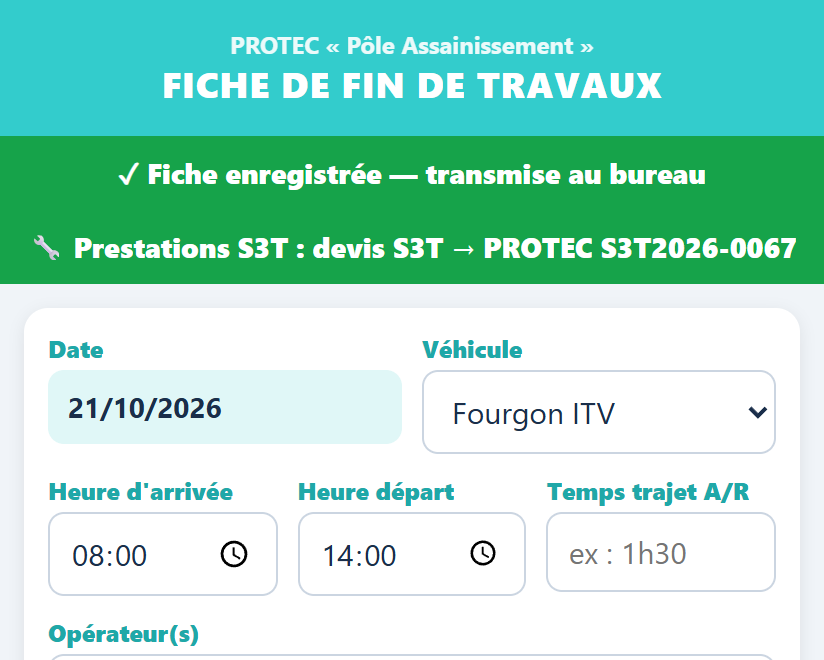
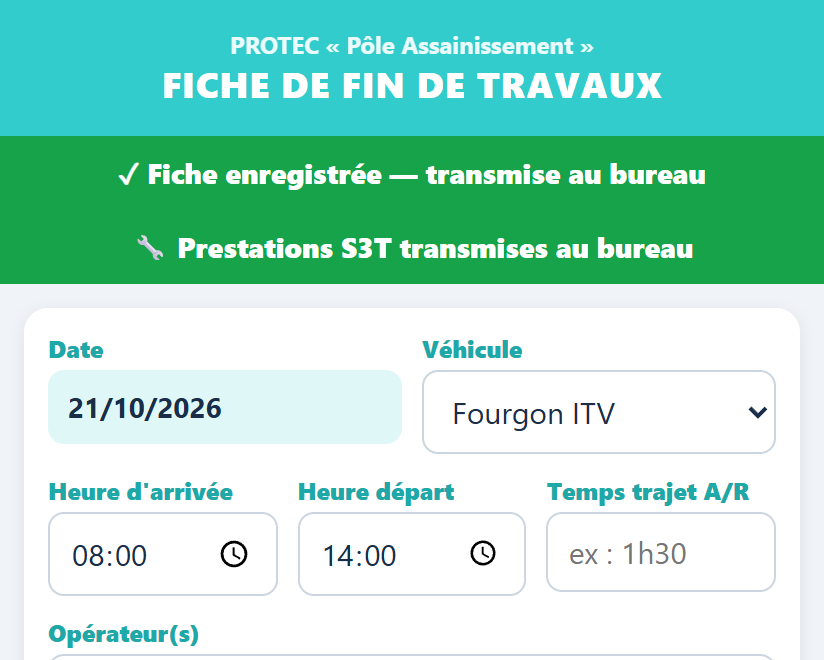
Docs : procédure S3T sans devis (transmission au bureau), bandeau recapturé

Changed region(s): [[0.0303, 0.3333, 0.9709, 0.3939]]

diff --git a/docs/build_procedure_s3t.py b/docs/build_procedure_s3t.py
@@ -1,7 +1,7 @@
 # -*- coding: utf-8 -*-
 """Procédure « Prestations S3T sur la fiche de fin de travaux » (19/10/2026).
   python build_procedure_s3t.py  ->  Desktop/Protec assainissement/Procedure_fiche_S3T_2026-10-19.pdf
-Captures facultatives : docs/captures_s3t/1_onglet_s3t.png, 2_bandeau_s3t.png, 3_devis_s3t.png, 4_chatter_creneau.png."""
+Captures facultatives : docs/captures_s3t/1_onglet_s3t.png, 2_bandeau_s3t.png, 4_chatter_creneau.png."""
 import os, sys
 sys.stdout.reconfigure(encoding='utf-8')
 from reportlab.lib.pagesizes import A4
@@ -63,7 +63,7 @@ s = [Paragraph("Prestations S3T sur la fiche de fin de travaux", H1),
      Paragraph("Sous-traitance S3T pour PROTEC : saisie par Thomas sur le téléphone, suivi par le bureau. Version du 19/10/2026.", SMALL), Spacer(1, 6)]
 s.append(Paragraph("Quand S3T intervient pour un client PROTEC (inspection télévisée, prise en charge du fourgon, location de caméra…), "
                    "Thomas remplit la fiche de fin de travaux habituelle et note les prestations S3T dans l'onglet <b>S3T</b>. "
-                   "Ces prestations sont transmises au bureau PROTEC et un devis S3T → PROTEC est créé automatiquement pour la facturation de S3T.", NOTE))
+                   "Ces prestations sont transmises au bureau PROTEC, qui facture le client ; S3T facture PROTEC comme aujourd'hui, à partir des prestations notées.", NOTE))
 
 s.append(Paragraph("Côté Thomas : remplir l'onglet S3T", H2))
 s.extend(etapes(["Ouvrir <b>Ma tournée</b> sur le téléphone (lien habituel), puis la fiche de fin de travaux de l'intervention.",
@@ -71,30 +71,26 @@ s.extend(etapes(["Ouvrir <b>Ma tournée</b> sur le téléphone (lien habituel), 
                  "Appuyer sur l'onglet <b>S3T</b> (dernier onglet du bloc « Nature des travaux »). La liste reprend les articles de S3T : inspections télévisées REU, REP ou EU + EP, forfaits « moins de 275 ml », branchements, prise en charge d'un fourgon, rapport d'ITV, location de caméra, découchage…",
                  "Saisir la <b>quantité réalisée</b> en face de chaque prestation faite, dans l'unité indiquée (forfait, heure, unité, nuit). Laisser vide ce qui n'a pas été fait.",
                  "Ligne <b>Précisions S3T</b> : le matériel ou une remarque utile pour la facturation (caméra utilisée, regard, longueur…).",
-                 "Signature et photos comme d'habitude, puis <b>ENREGISTRER</b>. Le bandeau vert confirme et affiche le numéro du devis S3T créé (ex. S3T2026-0068).",
-                 "<b>PAUSE</b> garde les saisies sans rien transmettre : rien n'est créé côté S3T tant que la fiche n'est pas enregistrée."]))
+                 "Signature et photos comme d'habitude, puis <b>ENREGISTRER</b>. Le bandeau vert confirme : « Prestations S3T transmises au bureau ».",
+                 "<b>PAUSE</b> garde les saisies sans rien transmettre au bureau tant que la fiche n'est pas enregistrée."]))
 s.extend(deux_captures('1_onglet_s3t.png', "L'onglet S3T : quantités en face des prestations réalisées, puis précisions.",
-                       '2_bandeau_s3t.png', "Après ENREGISTRER : le bandeau indique le devis S3T créé."))
-s.append(Paragraph("Si la fiche est modifiée et enregistrée à nouveau, les prestations du devis S3T sont remplacées par les nouvelles, tant que S3T n'a pas confirmé ce devis. "
-                   "Une fois le devis confirmé par S3T, il n'est plus modifié : prévenir le bureau en cas de correction.", NOTE))
+                       '2_bandeau_s3t.png', "Après ENREGISTRER : le bandeau confirme la transmission au bureau."))
+s.append(Paragraph("Si la fiche est modifiée et enregistrée à nouveau, une nouvelle note est posée sur la commande avec les quantités à jour : c'est la dernière note qui compte.", NOTE))
 
 s.append(Paragraph("Côté bureau PROTEC : où retrouver les prestations", H2))
 s.extend(etapes(["<b>Sur le créneau du planning</b> : le chatter du créneau reçoit le résumé de la fiche avec un tableau « Prestations S3T (sous-traitant) » (prestation, quantité) et les précisions.",
-                 "<b>Sur la commande PROTEC</b> (le devis ou bon de commande client lié au créneau) : une note « Prestations S3T (sous-traitant) » reprend le même tableau et le numéro du devis S3T. C'est le point de départ pour facturer le client PROTEC.",
+                 "<b>Sur la commande PROTEC</b> (le devis ou bon de commande client lié au créneau) : une note « Prestations S3T (sous-traitant) » reprend le même tableau. C'est le point de départ pour facturer le client PROTEC.",
                  "<b>Sur le rapport d'intervention client</b> : les prestations S3T figurent dans « Prestations réalisées », sans mention du sous-traitant.",
-                 "<b>Côté S3T</b> (société S3T dans Odoo, menu Ventes › Devis) : un devis <b>S3T → PROTEC « Pôle Assainissement »</b> en brouillon, avec les lignes aux tarifs S3T, la référence de la commande PROTEC en référence client et, en bas, la date, le client et l'adresse de l'intervention. "
-                 "Vérifier, <b>Confirmer</b>, puis facturer : la facture S3T arrive dans PROTEC par la facturation électronique comme aujourd'hui."]))
-s.extend(capture('3_devis_s3t.jpg', "Le devis S3T → PROTEC créé en brouillon dans la société S3T (ici un test, supprimé ensuite)."))
+                 "<b>Côté S3T</b> : aucun devis n'est généré. S3T facture PROTEC comme aujourd'hui, en reprenant les prestations notées sur la commande PROTEC ; la facture arrive dans PROTEC par la facturation électronique."]))
 s.extend(capture('4_chatter_creneau.png', "Le résumé de la fiche dans le chatter du créneau, avec le tableau des prestations S3T.", 52))
 
 s.append(Paragraph("Points d'attention", H2))
 s.append(tableau([
     ["Situation", "Explication", "Que faire"],
     ["L'onglet S3T affiche « Articles S3T inaccessibles »", "Odoo n'a pas répondu, ou le compte du relais n'a plus accès à la société S3T.", "Réessayer un peu plus tard ; si cela persiste, prévenir Xavier."],
-    ["Le bandeau indique « ERREUR » après S3T", "La fiche est bien enregistrée, mais le devis S3T n'a pas pu être créé (article supprimé, droit manquant).", "Transmettre le message au bureau : le devis S3T se crée à la main depuis la note posée sur le créneau."],
+    ["Le bandeau indique « ERREUR » après S3T", "La fiche est bien enregistrée, mais la note sur la commande PROTEC n'a pas pu être posée.", "Prévenir le bureau : les prestations restent lisibles dans le chatter du créneau."],
     ["Plusieurs articles portent le même nom dans l'onglet (ex. « Prise en charge d'un fourgon »)", "Le catalogue S3T contient des doublons d'articles.", "Prendre le premier ; faire nettoyer le catalogue S3T (archiver les doublons) pour que la liste soit nette."],
-    ["Le devis S3T ne correspond plus à la fiche", "La fiche a été ré-enregistrée après la confirmation du devis.", "Corriger le devis ou la facture S3T à la main."],
-    ["Intervention sans commande PROTEC", "Le créneau n'a pas de référence de commande.", "Le devis S3T est quand même créé (origine « sans commande ») ; seule la note sur la commande PROTEC manque."],
+    ["Intervention sans commande PROTEC", "Le créneau n'a pas de référence de commande.", "Les prestations restent dans le chatter du créneau ; seule la note sur la commande PROTEC manque."],
 ], [52 * mm, 62 * mm, 64 * mm]))
 doc.build(s)
 print('PDF :', SORTIE)
